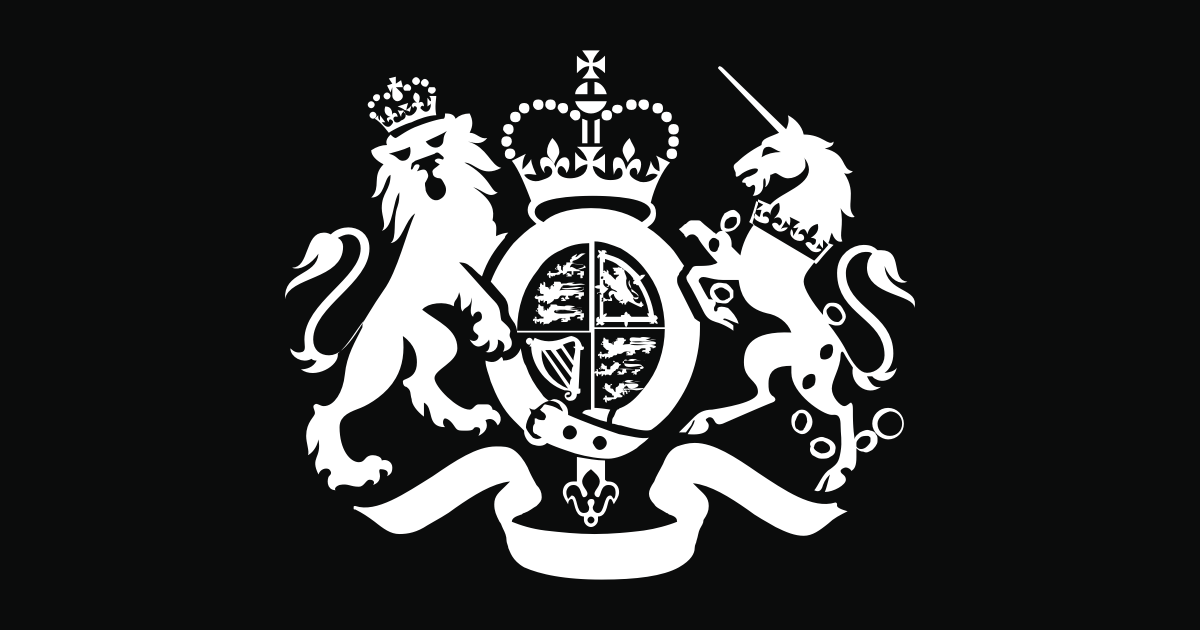
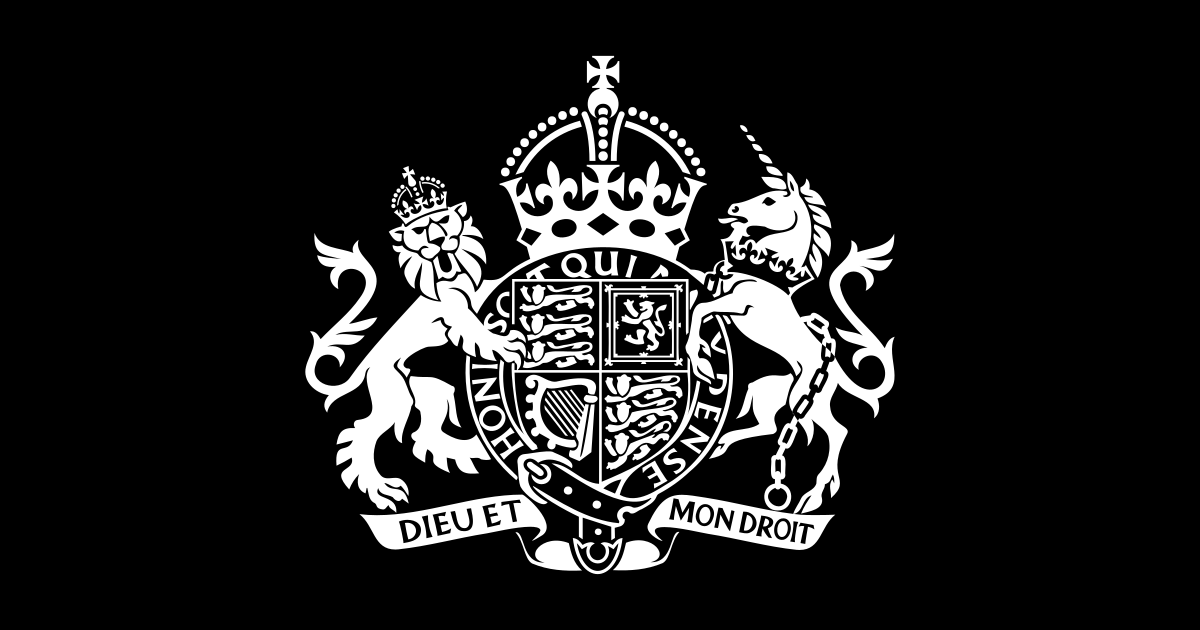
Page: Update assets to new crown
This also aligns the not-govuk page more closely to the current govuk
page.

Changed region(s): [[0.2467, 0.0905, 0.7708, 0.9349], [0.5858, 0.1206, 0.6167, 0.1508]]

diff --git a/components/page/src/NotGovUKPage.tsx b/components/page/src/NotGovUKPage.tsx
@@ -6,17 +6,15 @@ import { Page, PageProps } from './Page';
 import { unwrapImage } from './types';
 
 import iFavicon from '../assets/coat-favicon.ico';
-import iAppleTouchIcon180 from '../assets/coat-apple-touch-icon-180x180.png';
-import iAppleTouchIcon167 from '../assets/coat-apple-touch-icon-167x167.png';
-import iAppleTouchIcon152 from '../assets/coat-apple-touch-icon-152x152.png';
-import iAppleTouchIcon from '../assets/coat-apple-touch-icon.png';
+import iFaviconSVG from '../assets/coat-favicon.svg';
+import iMaskIcon from '../assets/coat-icon-mask.svg';
+import iAppleTouchIcon180 from '../assets/coat-icon-180.png';
 import iOGImage from '../assets/coat-opengraph-image.png';
 
 const favicon = unwrapImage(iFavicon);
+const faviconSVG = unwrapImage(iFaviconSVG);
+const maskIcon = unwrapImage(iMaskIcon);
 const appleTouchIcon180 = unwrapImage(iAppleTouchIcon180);
-const appleTouchIcon167 = unwrapImage(iAppleTouchIcon167);
-const appleTouchIcon152 = unwrapImage(iAppleTouchIcon152);
-const appleTouchIcon = unwrapImage(iAppleTouchIcon);
 const ogImage = unwrapImage(iOGImage);
 
 import '../assets/NotGovUKPage.scss';
@@ -31,11 +29,10 @@ export const NotGovUKPage: FC<NotGovUKPageProps> = ({ children, classModifiers, 
     govUK={false}
   >
     <meta name="theme-color" content={'#0b0c0c'} />
-    <link rel="shortcut icon" sizes="16x16 32x32 48x48" href={favicon} type="image/x-icon" />
-    <link rel="apple-touch-icon" sizes="180x180" href={appleTouchIcon180} />
-    <link rel="apple-touch-icon" sizes="167x167" href={appleTouchIcon167} />
-    <link rel="apple-touch-icon" sizes="152x152" href={appleTouchIcon152} />
-    <link rel="apple-touch-icon" href={appleTouchIcon} />
+    <link rel="icon" sizes="16x16 32x32 48x48" href={favicon} />
+    <link rel="icon" sizes="any" href={faviconSVG} type="image/svg+xml" />
+    <link rel="mask-icon" href={maskIcon} color={'#0b0c0c'} />
+    <link rel="apple-touch-icon" href={appleTouchIcon180} />
     <meta property="og:image" content={ogImage} />
     {children}
   </Page>
